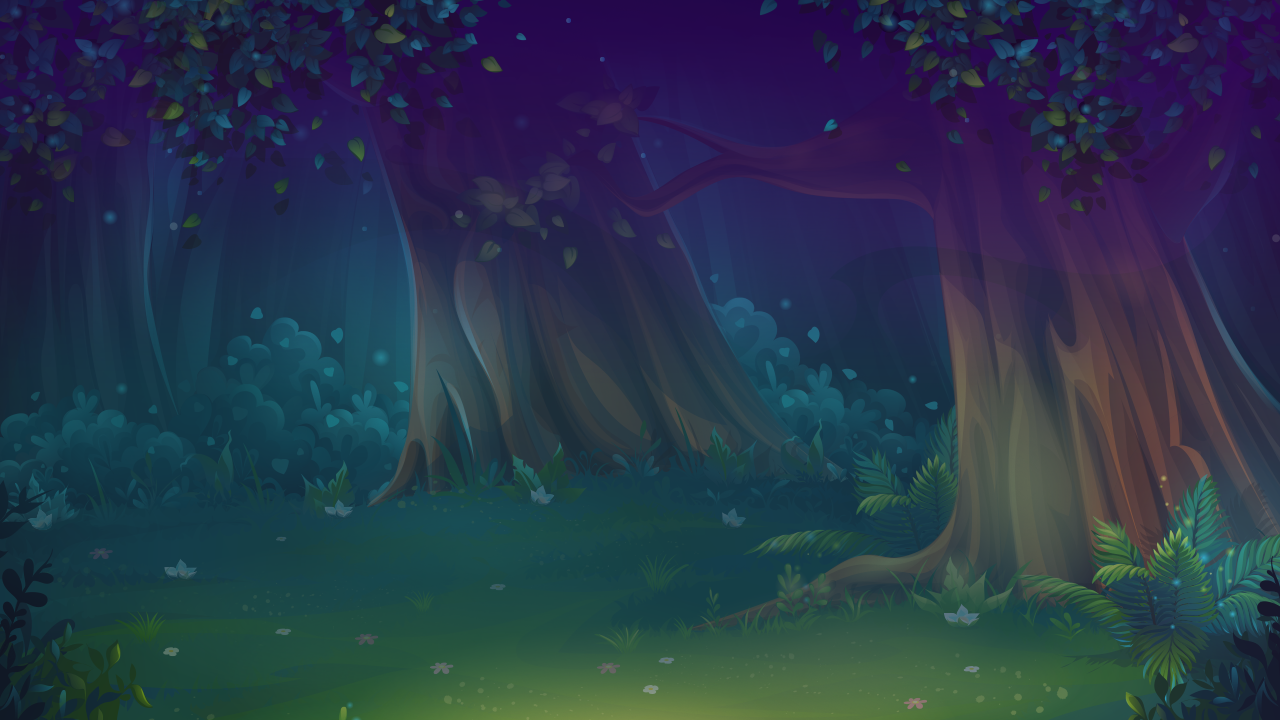
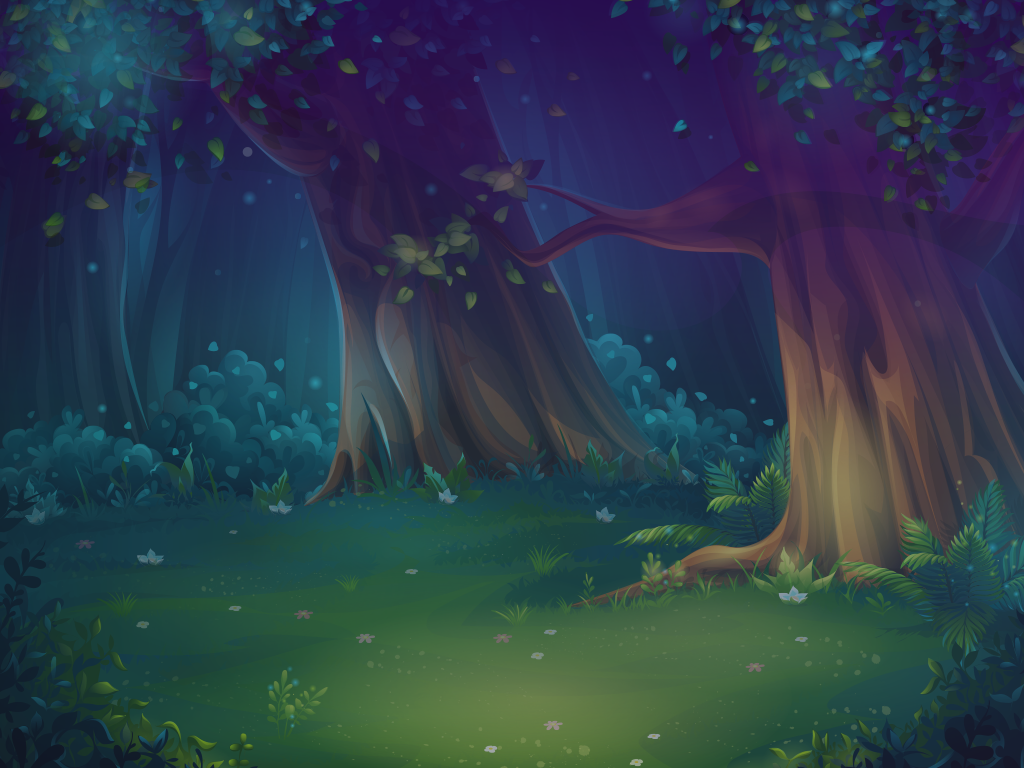
2021-05-21

diff --git a/assets/css/large.css b/assets/css/large.css
@@ -27,11 +27,11 @@
 }
 
 .main.alphabet {
-    background-image: url('../image/main_alphabet/page_bg.png');
+    background-image: url('../image/main_alphabet/page_bg_1024x768.png');
 }
 
 .main.phonics1 {
-    background-image: url('../image/main_phonics1/board_bg.png');
+    background-image: url('../image/main_phonics1/board_bg_1024x768.png');
 }
 
 .main.phonics2 {
@@ -39,7 +39,7 @@
 }
 
 .main.sight-words {
-    background-image: url('../image/main_sight_words/board_bg.png');
+    background-image: url('../image/main_sight_words/board_bg_1024x768.png');
 }
 
 .main.song-n-chant {
@@ -51,11 +51,11 @@
 }
 
 .main.song02 {
-    background-image: url('../image/main_song/song02/song-2-0_bg.png');
+    background-image: url('../image/main_song/song02/alphabet_bg_1024x768.png');
 }
 
 .main.song03 {
-    background-image: url('../image/main_song/song03/song-3-0_bg.png');
+    background-image: url('../image/main_song/song03/phonics_bg_1024x768.png');
 }
 
 .main.game {
@@ -72,6 +72,28 @@
 
 .main.game03 {
     background-image: url('../image/main_game/game03/3-0_bg.png');
+}
+
+@media screen and (max-height: 600px) {
+    .main.alphabet {
+        background-image: url('../image/main_alphabet/page_bg_960x600.png');
+    }
+
+    .main.phonics1 {
+        background-image: url('../image/main_phonics1/board_bg_960x600.png');
+    }
+
+    .main.sight-words {
+        background-image: url('../image/main_sight_words/board_bg_960x600.png');
+    }
+
+    .main.song02 {
+        background-image: url('../image/main_song/song02/alphabet_bg_960x600.png');
+    }
+
+    .main.song03 {
+        background-image: url('../image/main_song/song03/phonics_bg_1024x768.png');
+    }
 }
 
 /* 화면별 배경 끝 */
@@ -697,6 +719,7 @@
     .img-game01-logo {
         width: 380px;
     }
+
     .sec1 .common-top .logo-game01-sub {
         position: absolute;
         top: 40px;
@@ -743,6 +766,7 @@
     .img-game02-logo {
         width: 380px;
     }
+
     .sec1 .common-top .logo-game02-sub {
         position: absolute;
         top: 30px;
@@ -784,6 +808,7 @@
     .img-game03-logo {
         width: 380px;
     }
+
     .sec1 .common-top .logo-game03-sub {
         position: absolute;
         top: 30px;

diff --git a/assets/css/small.css b/assets/css/small.css
@@ -27,11 +27,11 @@
 }
 
 .main.alphabet {
-    background-image: url('../image/main_alphabet/page_bg.png');
+    background-image: url('../image/main_alphabet/page_bg_667x375.png');
 }
 
 .main.phonics1 {
-    background-image: url('../image/main_phonics1/board_bg.png');
+    background-image: url('../image/main_phonics1/board_bg_667x375.png');
 }
 
 .main.phonics2 {
@@ -39,7 +39,7 @@
 }
 
 .main.sight-words {
-    background-image: url('../image/main_sight_words/board_bg.png');
+    background-image: url('../image/main_sight_words/board_bg_667x375.png');
 }
 
 .main.song-n-chant {
@@ -51,11 +51,11 @@
 }
 
 .main.song02 {
-    background-image: url('../image/main_song/song02/song-2-0_bg.png');
+    background-image: url('../image/main_song/song02/alphabet_bg_667x375.png');
 }
 
 .main.song03 {
-    background-image: url('../image/main_song/song03/song-3-0_bg.png');
+    background-image: url('../image/main_song/song03/phonics_bg_667x375.png');
 }
 
 .main.game {
